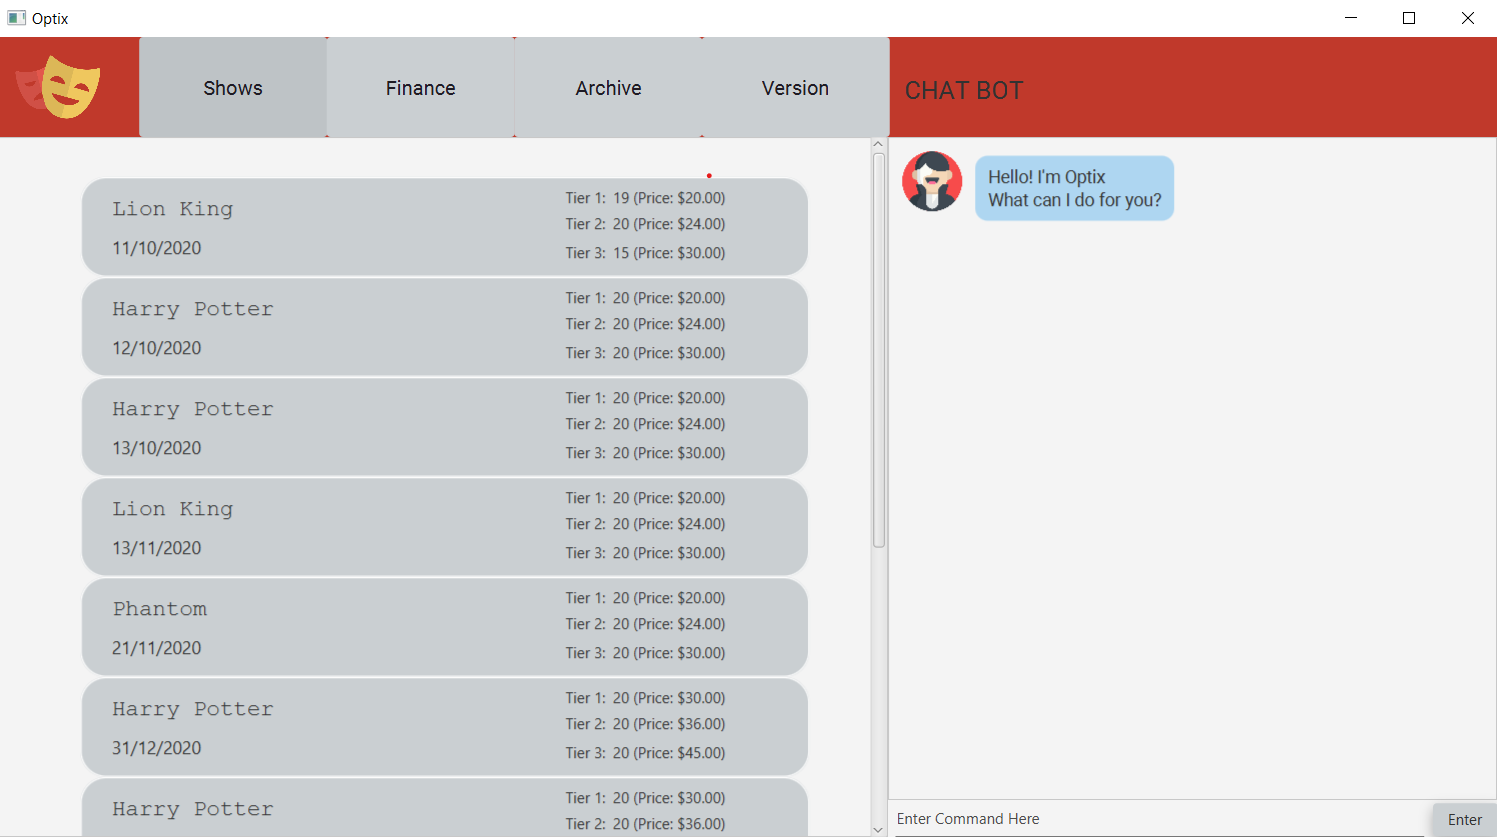
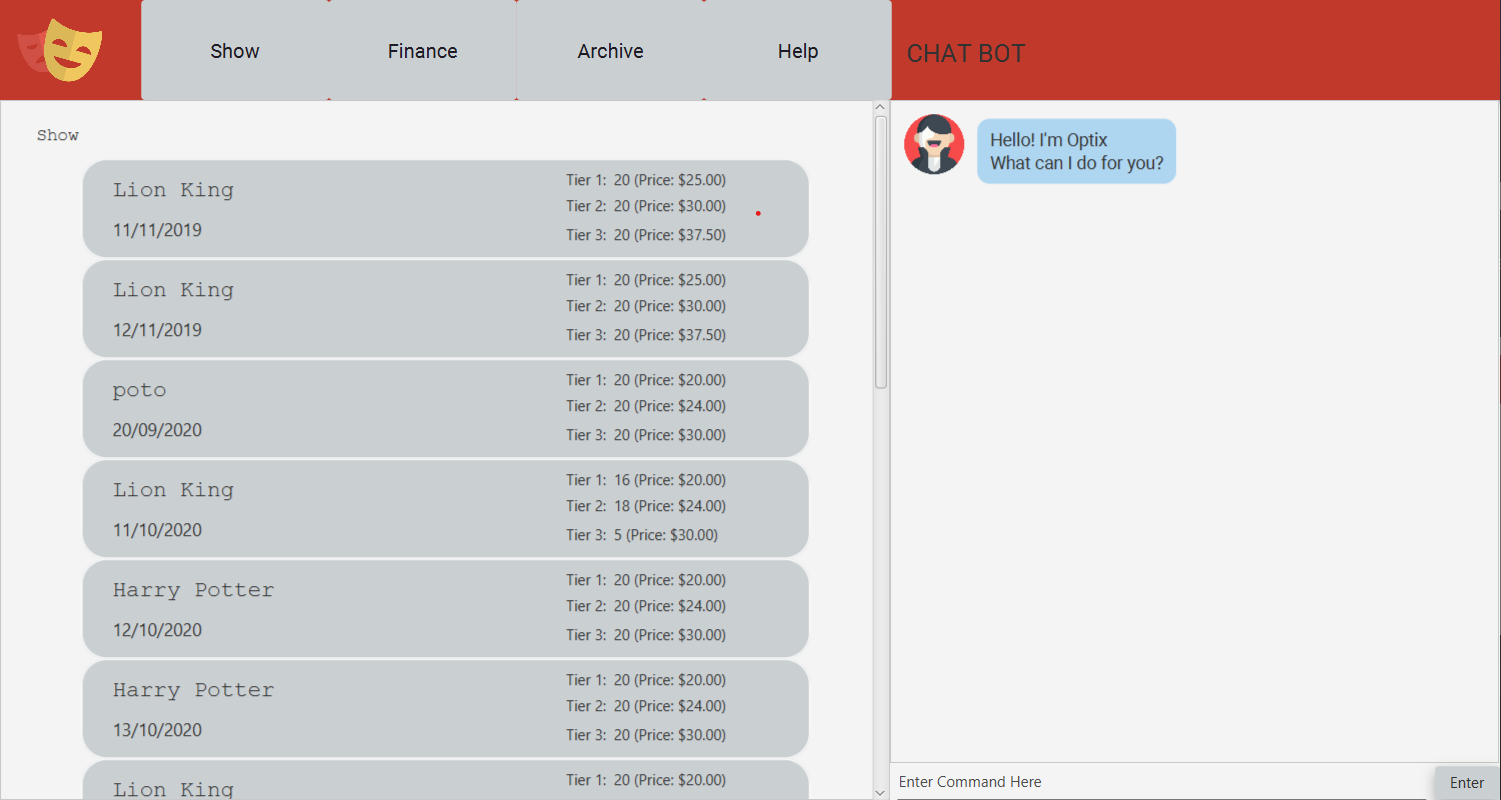
Bug fix (#139)
* Changed Postpone to Reschdule, Bug Fix

* BugFix AddAliasCommand, SeatDisplay, TabCommand

* Updated DevGuide Design Section

* Fixed spelling error for DG

Changed region(s): [[0.0, 0.0, 1.0, 1.0], [0.5838, 0.9688, 0.7067, 1.0], [0.9526, 0.9375, 1.0, 1.0]]

diff --git a/src/main/java/optix/ui/windows/MainWindow.java b/src/main/java/optix/ui/windows/MainWindow.java
@@ -6,6 +6,7 @@ import javafx.animation.PauseTransition;
 import javafx.application.Platform;
 import javafx.fxml.FXML;
 import javafx.fxml.FXMLLoader;
+import javafx.scene.control.Label;
 import javafx.scene.control.ScrollPane;
 import javafx.scene.image.Image;
 import javafx.scene.image.ImageView;
@@ -34,6 +35,8 @@ public class MainWindow extends AnchorPane {
     //// All the elements on the left side of the window.
     @FXML
     private VBox display;
+    @FXML
+    private Label tabName;
 
     //// All the elements on the right side of the window.
     @FXML
@@ -93,13 +96,19 @@ public class MainWindow extends AnchorPane {
             shutDown();
             break;
         case "show":
+            tabName.setText("Show");
             displayShows();
             break;
         case "seat":
+            tabName.setText("Seat");
             displaySeats(fullCommand);
             break;
         case "archive":
+            tabName.setText("Archive");
+            displayFinance();
+            break;
         case "finance":
+            tabName.setText("Finance");
             displayFinance();
             break;
         case "help":
@@ -119,7 +128,6 @@ public class MainWindow extends AnchorPane {
 
     private void displayShows() {
         clearDisplay();
-
         for (Map.Entry<LocalDate, Theatre> entry : optix.getShowsGui().entrySet()) {
             display.getChildren().add(ShowController.displayShow(entry.getValue(), entry.getKey()));
         }
@@ -127,7 +135,6 @@ public class MainWindow extends AnchorPane {
 
     private void displayFinance() {
         clearDisplay();
-
         for (Map.Entry<LocalDate, Theatre> entry : optix.getShowsGui().entrySet()) {
             display.getChildren().add(FinanceController.displayFinance(entry.getValue(), entry.getKey()));
         }
@@ -135,7 +142,7 @@ public class MainWindow extends AnchorPane {
 
     private void displaySeats(String fullCommand) {
         String[] splitStr = fullCommand.split("\\|");
-        if (splitStr.length == 2 && !optix.getShowsGui().isEmpty()) {
+        if (!optix.getShowsGui().isEmpty()) {
             clearDisplay();
 
             LocalDate localDate = new OptixDateFormatter().toLocalDate(splitStr[1].trim());
@@ -149,24 +156,28 @@ public class MainWindow extends AnchorPane {
     @FXML
     private void displayHelp() {
         clearDisplay();
+        tabName.setText("Help");
         display.getChildren().add(HelpWindow.getHelpWindow());
     }
 
     @FXML
     private void clickShow() {
         optix.resetShows();
+        tabName.setText("Show");
         displayShows();
     }
 
     @FXML
     private void clickArchive() {
         optix.resetArchive();
+        tabName.setText("Archive");
         displayFinance();
     }
 
     @FXML
     private void clickFinance() {
         optix.resetShows();
+        tabName.setText("Finance");
         displayFinance();
     }
 

diff --git a/src/main/java/optix/util/Parser.java b/src/main/java/optix/util/Parser.java
@@ -35,7 +35,6 @@ import java.util.Map;
  * Parse input arguments and create a new Command Object.
  */
 public class Parser {
-
     public static HashMap<String, String> commandAliasMap = new HashMap<>();
     private File preferenceFilePath; // the directory where the file is stored
     private File preferenceFile; // the path to the file itself
@@ -91,11 +90,10 @@ public class Parser {
             case "finance":
                 return new TabCommand(commandName);
             default:
-                throw new OptixInvalidCommandException();
+                return new TabCommand(commandName);
             }
         } else if (splitStr.length == 2) {
 
-            // There will definitely be exceptions thrown here. Need to stress test and then categorise
             switch (commandName) {
             case "edit":
                 return new EditCommand(splitStr[1]);
@@ -132,8 +130,6 @@ public class Parser {
     }
 
     //@@ OungKennedy
-
-
     /**
      * Adds a new alias-command pair to commandAliasMap.
      *
@@ -221,7 +217,6 @@ public class Parser {
         commandAliasMap.put("d", "delete");
     }
 
-
     /**
      * Parse the remaining user input to its respective parameters for ListDateCommand or ListShowCommand.
      *
@@ -242,6 +237,4 @@ public class Parser {
 
         return new ListShowCommand(details);
     }
-
-
 }

diff --git a/src/main/java/optix/commands/parser/AddAliasCommand.java b/src/main/java/optix/commands/parser/AddAliasCommand.java
@@ -16,12 +16,15 @@ public class AddAliasCommand extends Command {
     private String details;
     private File preferenceFilePath;
 
+    private static final String MESSAGE_NOT_ACCEPTED = "☹ OOPS!!! Spaces are not allowed for alias command.\n"
+                                                       + "Please try again";
+
     /**
      * Command to add a new alias to the command alias map.
      * @param details String containing "NEW_ALIAS|COMMAND"
      */
     public AddAliasCommand(String details, File filePath) {
-        this.details = details;
+        this.details = details.trim();
         this.preferenceFilePath = filePath;
     }
 
@@ -50,6 +53,10 @@ public class AddAliasCommand extends Command {
         String message;
         Parser dummyParser = new Parser(preferenceFilePath);         // create parser object
         try {
+            String[] aliasArray = newAlias.split(" ");
+            if (aliasArray.length > 1 || aliasArray[0].equals("")) {
+                throw new OptixException(MESSAGE_NOT_ACCEPTED);
+            }
             // adds the alias-command pair to commandAliasMap, and saves it to file
             dummyParser.addAlias(newAlias, command);
             dummyParser.savePreferences();
